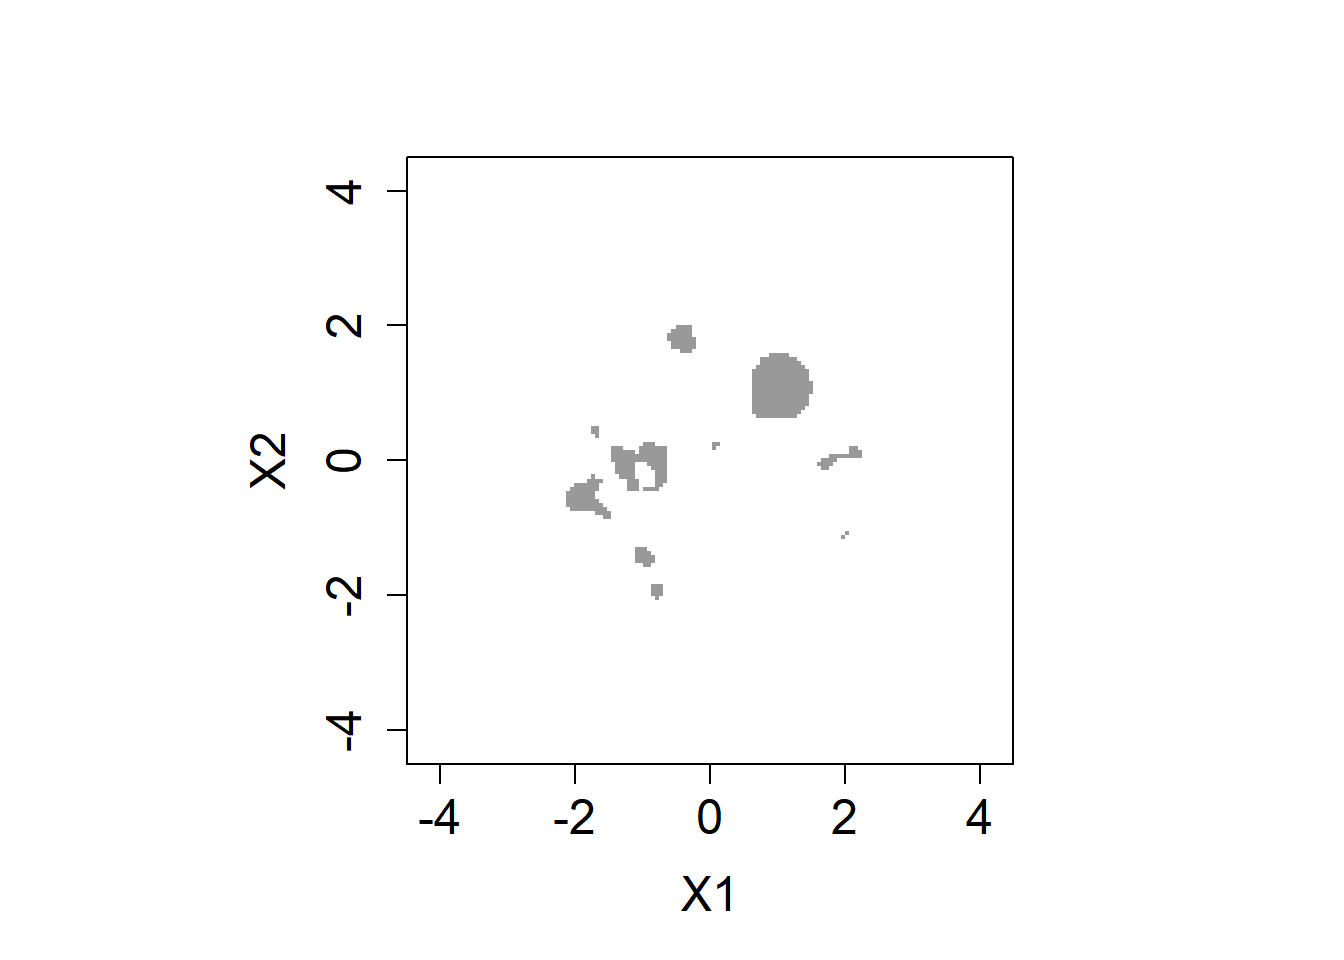
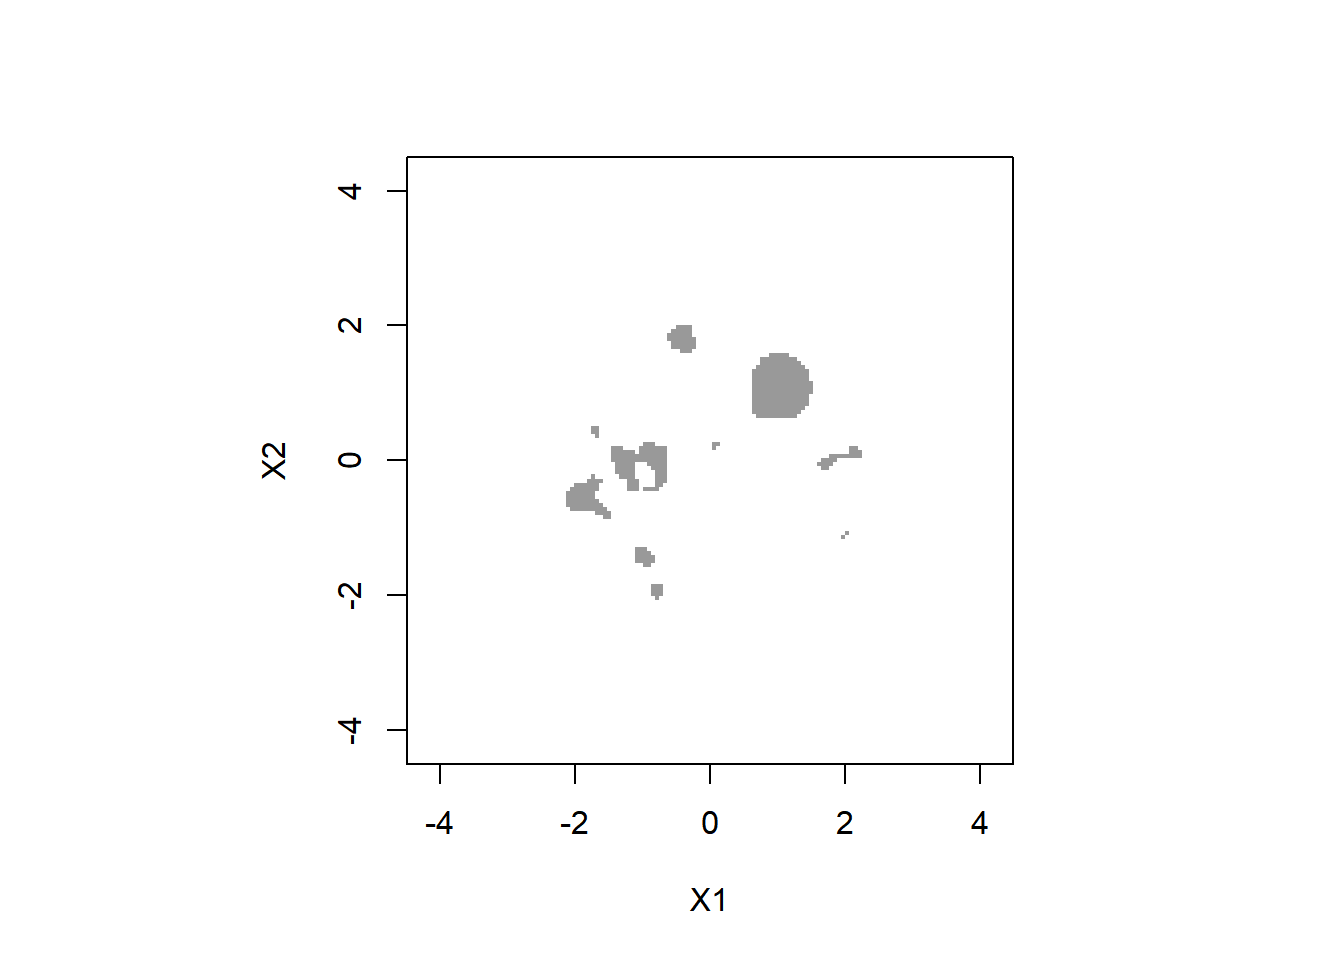
update

diff --git a/docs/kd_basics.html b/docs/kd_basics.html
@@ -384,15 +384,13 @@ div.tocify {
 <div class="section level2">
 <h2>準備</h2>
 <p>本ページで使用するパッケージがインストールされていない場合は，以下のコマンドをコンソールに入力してインスト―ルしてください。</p>
-<pre class="r"><code># install.packages(&quot;ks&quot;)
-# install.packages(&quot;fields&quot;)
-# install.packages(&quot;mvtnorm&quot;)</code></pre>
+<pre class="r"><code>install.packages(&quot;ks&quot;)
+install.packages(&quot;mvtnorm&quot;)</code></pre>
 </div>
 <div class="section level2">
 <h2>ライブラリ読み込み</h2>
 <p>必要なパッケージを読み込みます。</p>
 <pre class="r"><code>library(ks)
-library(fields) # for image.plot
 library(mvtnorm)</code></pre>
 </div>
 <div class="section level2">
@@ -401,10 +399,12 @@ library(mvtnorm)</code></pre>
 <pre class="r"><code># 乱数のシードを決定
 set.seed(1)
 
+# 多数派の集団
 dat1 &lt;- rmvnorm(n = 10000,
                 mean = c(0,0),
                 sigma = diag(2)  )
 
+# 高密度なクラスターをなす集団
 dat2 &lt;- rmvnorm(n = 1000,
                 mean = c(1.0,1.0),
                 sigma = diag(2)*0.05  )
@@ -476,9 +476,8 @@ image(density.original,
 <p>(X1, X2) = (1, 1) の周辺に密度の高い領域が存在することがはっきりします。</p>
 </div>
 <div class="section level2">
-<h2>“ヌルモデル”の構築</h2>
+<h2>ヌルモデルの構築</h2>
 <p>上で見た高密度な領域が有意に高密度であるかどうか 検討するため，ヌルモデルを構築し，密度を比較 する方法を紹介します (Gerlach et al., 2018)。 まず，変数間の関係をランダマイズ (シャッフル) し， 周辺分布を保ちながら，変数間の依存関係を壊したサンプルを作ります。</p>
-<!-- 上の作業はapply関数を使えば1行で書けます。 -->
 <pre class="r"><code>x_shuffeled &lt;- apply(df_data, MARGIN = 2, sample)</code></pre>
 <p>上の1行は，関数applyで各列に関数sampleを適用しています。sampleは引数の配列の順番をシャッフルする関数です。</p>
 <p>(参考) これをfor文で書くと以下のようになります。</p>
@@ -497,12 +496,14 @@ plot(x_shuffeled[,1], x_shuffeled[,2],
 <pre class="r"><code># カーネル密度推定 
 # (bandwidth:  Hpiはオリジナルなデータで選択したものを使う)
 kd_null &lt;- ks::kde(x = x_shuffeled, H = Hpi,
-                   xmin = xmin, xmax = xmax)</code></pre>
+                   xmin = xmin, xmax = xmax)
+
+density.shuffle &lt;- kd_null$estimate</code></pre>
 <p>推定した密度のカラーマップを作り，オリジナルなデータのものと比較してみます。</p>
 <pre class="r"><code>par(mfrow=c(1,2), pty = &quot;s&quot;)
 
 # 密度の最大値を求める
-zmax &lt;- max(density.original,kd_null$estimate)
+zmax &lt;- max(density.original, density.shuffle)
 
 image(density.original,
       x = eval.points.x,
@@ -511,17 +512,20 @@ image(density.original,
       main = &quot;original data&quot;, zlim = c(0,zmax),
       col = viridis::viridis(20))
 
-image(kd_null$estimate,
+image(density.shuffle,
       x = eval.points.x,
       y = eval.points.y,
       xlab = &quot;X1&quot;, ylab = &quot;X2&quot;,
       main = &quot;null model&quot;, zlim = c(0,zmax), 
       col = viridis::viridis(20))</code></pre>
 <p><img src="kd_basics_files/figure-html/unnamed-chunk-13-1.png" width="672" /> 左のオリジナルなデータは，座標(1,1)周辺の高密度領域がヌルモデルと比べて密度が高くなっている様子がわかります。</p>
+</div>
+<div class="section level2">
+<h2>ヌルモデルとの比較によるクラスターの評価</h2>
 <p>次に，二つの密度の差分をってみます。</p>
 <pre class="r"><code># 密度の差分をとる
 # ただし，ヌルモデルの方が密度が高い領域はゼロに
-diff &lt;- pmax(density.original - kd_null$estimate, 0) 
+diff &lt;- pmax(density.original - density.shuffle, 0) 
   
 zmax &lt;- max(diff)
 
@@ -548,7 +552,8 @@ for (idxs in 1:n.shuffle) {
   x_shuffeled &lt;- apply(df_data, MARGIN = 2, sample)
   
   # カーネル密度推定の実行
-  k.shuffle &lt;- ks::kde(x = x_shuffeled, H = Hpi, xmin = xmin, xmax = xmax)
+  k.shuffle &lt;- ks::kde(x = x_shuffeled, H = Hpi, 
+                       xmin = xmin, xmax = xmax)
   
   # ヌルモデルより密度が高い領域は1を足す
   count_exceedance &lt;- count_exceedance + 
@@ -561,7 +566,7 @@ for (idxs in 1:n.shuffle) {
 }
 
 # ヌルモデルの密度の平均を計算
-d.shuffle &lt;- density.sum / n.shuffle
+d.shuffle.mean &lt;- density.sum / n.shuffle
 
 # p値を，ヌルモデルの密度を超えた回数の割合として計算
 p.value &lt;- count_exceedance / n.shuffle</code></pre>
@@ -571,12 +576,11 @@ image(eval.points.x,
       eval.points.y,
       z = (p.value &lt; 0.01), # 有意な領域はTRUEに
       col = c( rgb(0, 0, 0, alpha = 0.0),
-               rgb(0.2,0.2, 0.8, alpha = 0.5)),
+               rgb(0.2,0.2, 0.2, alpha = 0.5)),
       xlim = c(xmin[1],xmax[1]), 
       ylim = c(xmin[2],xmax[2]),
       zlim = c(0,1),
-      xlab = &quot;X1&quot;, ylab = &quot;X2&quot;,
-      cex.axis = 1.5, cex.lab = 1.5
+      xlab = &quot;X1&quot;, ylab = &quot;X2&quot;
 )</code></pre>
 <p><img src="kd_basics_files/figure-html/unnamed-chunk-16-1.png" width="672" /> (1,1)周辺の領域は有意であると判定されます。 一方で，それ以外にも有意になっている“ごみクラスター”もみられます。</p>
 <p>データの密度が低いところは，推定誤差などの影響も受けやすくなり， あまり意味のある結果とは言えません。そこで，データの密度が，最高値の 5%に満たないところは除外してみます。</p>
@@ -587,13 +591,12 @@ image(eval.points.x,
       eval.points.y,
       z = (p.value &lt; 0.01 &amp; density.original &gt; d.threshold), 
       # 有意な領域，かつd.thresholdより密度が高い領域はTRUEに
-      col = c( rgb(0, 0, 0, alpha=0.0),
-               rgb(0.2,0.2, 0.2, alpha=0.5)),
+      col = c( rgb(0, 0, 0, alpha = 0.0),
+               rgb(0.2,0.2, 0.2, alpha = 0.5)),
       xlim = c(xmin[1],xmax[1]), 
       ylim = c(xmin[2],xmax[2]),
       zlim = c(0,1),
-      xlab = &quot;X1&quot;, ylab = &quot;X2&quot;,
-      cex.axis = 1.5, cex.lab = 1.5
+      xlab = &quot;X1&quot;, ylab = &quot;X2&quot;
 )</code></pre>
 <p><img src="kd_basics_files/figure-html/unnamed-chunk-17-1.png" width="672" /></p>
 <p>さらに，Gerlachらはオリジナルなデータの密度とヌルモデルの密度の平均値の 比を’enrichment’と定義し， クラスターの中心が<span class="math inline">\(p &lt; 0.01\)</span> という基準に加え，enrichment <span class="math inline">\(&gt;\)</span> 1.25になるクラスターをmeaningfulな クラスターとしています。このenrichmentに関する制約も加えてみます。</p>
@@ -601,18 +604,17 @@ image(eval.points.x,
 image(eval.points.x,
       eval.points.y,
       z = (p.value &lt; 0.01 &amp; density.original &gt; d.threshold &amp; 
-             density.original / d.shuffle &gt; 1.25), # enrichmentが1.25を超えるという条件を追加
+             density.original / d.shuffle.mean &gt; 1.25), # enrichmentが1.25を超えるという条件を追加
       col = c( rgb(0, 0, 0, alpha=0.0),
                rgb(0.2,0.2, 0.2, alpha=0.5)),
-      xlim = c(-5,5),
-      ylim = c(-5,4.5),
+      xlim = c(xmin[1],xmax[1]), 
+      ylim = c(xmin[2],xmax[2]),
       zlim = c(0,1),
-      xlab = &quot;X1&quot;, ylab = &quot;X2&quot;,
-      cex.axis = 1.5, cex.lab = 1.5
+      xlab = &quot;X1&quot;, ylab = &quot;X2&quot;
 )</code></pre>
 <p><img src="kd_basics_files/figure-html/unnamed-chunk-18-1.png" width="672" /></p>
-<p>これでもまだ“ごみクラスター”は残ります。 (fMRIのデータ解析で行われるように，クラスターサイズで 有意性を判定するという方法も考えられます。) Gerlachらは，このように全領域にわたる評価点を網羅的に評価するというのではなく， まず混合正規分布のフィットを行い，そのピークの座標だけで上のような計算を行っています。 ですので，ごみクラスターの存在はそこまで問題にはならないかもしれません。</p>
-<p>また，Gerlachらが扱ったようにデータの次元数が5次元にもなると，このように網羅的な密度の 評価は計算負荷の問題から現実的ではなくなります。計算したところで，可視化することは困難です。</p>
+<p>これでもまだ“ごみクラスター”は残っています。 <!-- (fMRIのデータ解析で行われるように，クラスターサイズで --> <!-- 有意性を判定するという方法も考えられます。) --> Gerlachらは，このように全領域にわたる評価点を網羅的に評価するというのではなく， まず混合正規分布のフィットを行い，そのピークの座標だけで上のような計算を行っています。 ですので，ごみクラスターの存在はそこまで問題にはならないかもしれません。</p>
+<p>また，Gerlachらが扱ったようにデータの次元数が5次元にもなると，このように網羅的な密度の 評価は計算負荷の問題から現実的ではなくなります。</p>
 </div>
 
 

diff --git a/docs/index.html b/docs/index.html
@@ -390,14 +390,14 @@ div.tocify {
 <div class="section level2">
 <h2>本サイトの方針</h2>
 <div class="section level3">
-<h3>仮定している生成プロセスからデータを作る</h3>
+<h3>自分で作ったデータを使う</h3>
 <p>本サイトに限らず，私は新しいモデルやデータ分析手法を用いるときは， 既存のサンプルデータを使うのではなく， まずはモデルの背後に仮定されているデータ生成過程を使って人工的なデータを生成してみて， そのデータを分析してみる，という方法をとっています。</p>
 <p>その方が，正解が分かっている分，推定結果の評価もしやすいですし， モデルの仮定と真のデータ生成過程にミスマッチがあるときに何が起きるか， どのくらいのサンプル数があれば安定した結果が得られるか，などの 検討もできてよいと考えています (その例が<a href="https://www.sciencedirect.com/science/article/pii/S0022249617302407">Katahira (2018)</a>, <a href="https://psyarxiv.com/wua9j/">Katahira, Kunisato, Yamshita &amp; Suzuki (2019)</a>など)。</p>
 <p>本チュートリアルでも，そのような方針で行きたいと思います。</p>
 </div>
 <div id="r" class="section level3">
 <h3>Rスクリプトの書き方</h3>
-<p>Rのコードは，極力簡潔に，しかし多少冗長でも，他の言語を使用していてRに慣れていない方にも処理の流れが追いやすいように書きたいと思います。 例えば，apply系の関数を使うとfor文を使わず簡潔に書けることが多いのですが， Rに慣れていない方にとっては可読性が下がるので，使用は必要最低限にとどめるようにしています。</p>
+<p>Rのコードは，極力簡潔に，しかし多少冗長でも，他の言語を使用していてRにはあまり慣れていない方にも処理の流れが追いやすいように書きたいと思います。 例えば，apply系の関数を使うとfor文を使わず簡潔に書けることが多いのですが， Rに慣れていない人 (私自信そうですが…) にとっては流れがつかみにくくなるので，使用は必要最低限にとどめるようにしています。</p>
 </div>
 </div>
 
